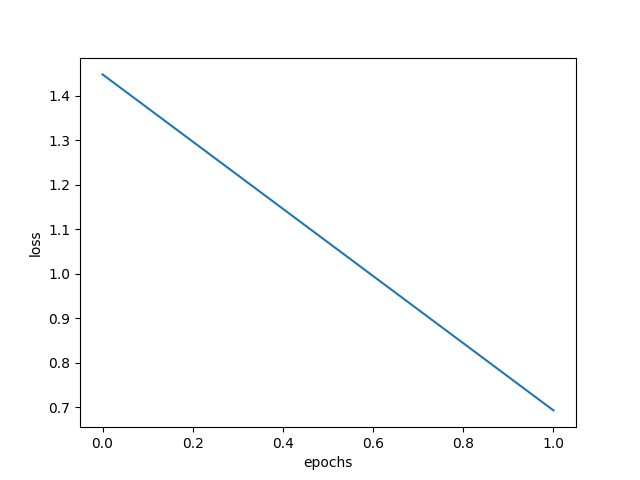
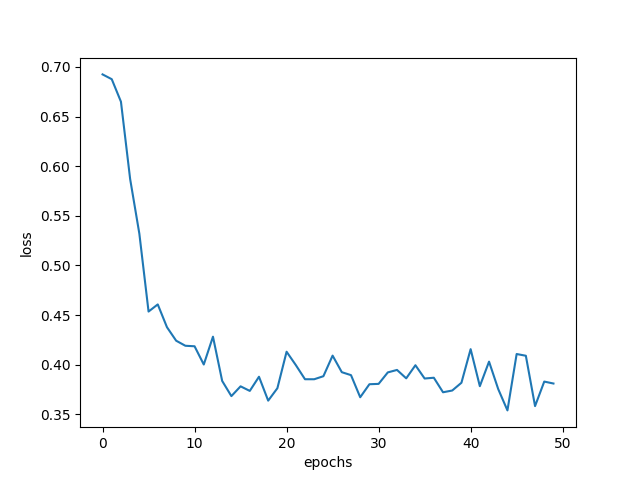
Third Commit
3.0

diff --git a/Gen 2/Code/CNN/Custom/Custom.py b/Gen 2/Code/CNN/Custom/Custom.py
@@ -14,12 +14,12 @@ MS_traindir = "Gen 2/MRI Data/Training/MS"
 noMS_testdir = "Gen 2/MRI Data/Test/noMS"
 MS_testdir = "Gen 2/MRI Data/Test/MS"
 height, width, depth = 181, 217, 181
-batch_size = 8 # number of samples that will be propagated through the network. Less = less memory but more inaccurate
+batch_size = 2 # number of samples that will be propagated through the network. Less = less memory but more inaccurate
 prefetch_size = 1 # How many data sets to prefetch for gpu, increase until no speed increases
 ratio = 0.7 # ratio of training to validation
 printPredict = True # Print each prediction
-modelnum = 6 # Select which model to use
-epochs = 2 # Number of trainings
+modelnum = 1 # Select which model to use
+epochs = 50 # Number of trainings
 
 # Optimizer
 OptimizerType = "Adam" # Adam, SGD, RMSprop
@@ -27,7 +27,7 @@ momentum = 0.0 # SGD, RMSprop
 
 # Modify Learning Rate: https://keras.io/api/optimizers/learning_rate_schedules/, for info on what these mean.
 Learnertype = "ExponentialDecay" # ExponentialDecay, PolynomialDecay, InverseTimeDecay, Constant
-initial_learning_rate = 0.001 # Needed for ExponentialDecay, PolynomialDecay, InverseTimeDecay, Constant
+initial_learning_rate = 0.0002 # Needed for ExponentialDecay, PolynomialDecay, InverseTimeDecay, Constant
 end_learning_rate = 0.0001 # Needed for PolynomialDecay
 decay_steps = 100000 # Needed for ExponentialDecay, PolynomialDecay, InverseTimeDecay
 power = 0.5 # Needed for PolynomialDecay
@@ -37,9 +37,8 @@ staircase = True # Needed for ExponentialDecay, InverseTimeDecay
 # Callbacks
 checkpoint = True # Use checkpoint callback to save best
 earlystopping = True # Stop model early if no growth
-monitor = "val_Accuracy" # What quantity to monitor for early stopping
-restore_best_weights = True # Restore the best weights for each epoch
-patience = 10 # Epochs with no improvement, training will be stopped.
+monitor = "val_loss" # What quantity to monitor for early stopping
+patience = 30 # Epochs with no improvement, training will be stopped.
 factorReduce = 0.2 # Factor learning rate should be reduced after stagnation
 patienceLR = 5 # Epochs after learning rate should be reduced
 min_lr = 0.00001 # Minimum learning rate
@@ -110,9 +109,9 @@ if inputstring.find('t') != -1:
 
     # Define callbacks.
     checkpoint_cb = keras.callbacks.ModelCheckpoint(
-        "Gen 2/Code/CNN/Custom/bestClassification.h5", save_best_only=True
+        "Gen 2/Code/CNN/Custom/bestClassification.h5", save_best_only=True, monitor=monitor
     )
-    early_stopping_cb = keras.callbacks.EarlyStopping(monitor=monitor, patience=patience, restore_best_weights=restore_best_weights, verbose=1) # Stop early if no change, patience is how long it should wait
+    early_stopping_cb = keras.callbacks.EarlyStopping(monitor=monitor, patience=patience, verbose=1, restore_best_weights=True) # Stop early if no change, patience is how long it should wait
     reduce_lr = keras.callbacks.ReduceLROnPlateau(monitor=monitor, factor=factorReduce, patience=patienceLR, min_lr=min_lr)
 
 

diff --git a/Gen 2/Test Stuff/viewNII.py b/Gen 2/Test Stuff/viewNII.py
@@ -1,13 +1,34 @@
-import nibabel
+# import nibabel
+# import matplotlib.pyplot as plt
+# import numpy as np
+
+# struct = nibabel.load("C:/Users/mihir/Desktop/Mihir/Science Fair/Multiple Sclerosis AI/Gen 2/MRI Data/Training/MS/Severe_10.mnc")
+# struct_arr = struct.get_fdata() / 1500
+
+# maxval = np.amax(struct_arr)
+# minval = np.amin(struct_arr)
+
+# print(maxval)
+# print(minval)
+# nibabel.viewers.OrthoSlicer3D(struct_arr).show()
+
+import pandas as pd
 import matplotlib.pyplot as plt
 import numpy as np
-
-struct = nibabel.load("C:/Users/mihir/Desktop/Mihir/Science Fair/Multiple Sclerosis AI/Gen 2/MRI Data/Training/MS/Severe_10.mnc")
-struct_arr = struct.get_fdata() / 1500
-
-maxval = np.amax(struct_arr)
-minval = np.amin(struct_arr)
-
-print(maxval)
-print(minval)
-nibabel.viewers.OrthoSlicer3D(struct_arr).show()
+history = [0.6933, 0.6634, 0.6243, 0.5783, 0.5663, 0.5535, 0.5232, 0.5152, 0.5345, 0.7655, 0.7864, 0.7566, 0.7875, 0.7563, 0.7965, 0.7764, 0.7564, 0.7563, 0.7556, 0.7463, 0.7956, 0.8012, 0.8164, 0.8244,
+0.8174, 0.7984, 0.8264, 0.8265, 0.8356, 0.8215, 0.8111, 0.8566, 0.8332, 0.8446, 0.8035, 0.8236, 0.8356, 0.8254, 0.8225, 0.8325, 0.8456, 0.8465, 0.8356, 0.8555, 0.8532, 0.8453, 0.8444, 0.8345, 0.8445, 0.8563]
+history = np.array(history)
+display = pd.DataFrame(history)
+history1 = [0.5136, 0.5347, 0.5964, 0.5243, 0.6933, 0.6832, 0.6733, 0.6832, 0.6744, 0.6253, 0.6342, 0.6173, 0.5000, 0.5126, 0.5223, 0.6833, 0.6936, 0.7223, 0.7332, 0.6524, 0.6452, 0.6524, 0.6653, 0.6786,
+0.7152, 0.7253, 0.7545, 0.6245, 0.6773, 0.7124, 0.7352, 0.7435, 0.7652, 0.7552, 0.7152, 0.5675, 0.6789, 0.7104, 0.7026, 0.6263, 0.6898, 0.6998, 0.7091, 0.7112, 0.7091, 0.7326, 0.7234, 0.7452, 0.7342, 0.7444]
+history = np.array(history1)
+display1 = pd.DataFrame(history1)
+plt.plot(display[0], label = "train")
+plt.plot(display1[0], label = "validation")
+x1,x2,y1,y2 = plt.axis()  
+plt.axis((x1,x2,0.4,1))
+plt.ylabel("ROC-AUC")
+plt.xlabel("epochs")
+plt.legend()
+plt.savefig("Gen 2/Code/CNN/Custom/Visualizations/lossHistory2.png")
+print("Displaying Loss")

diff --git a/Gen 2/Code/CNN/Custom/Models.py b/Gen 2/Code/CNN/Custom/Models.py
@@ -16,25 +16,24 @@ def get_model_1(height, width, depth):
 
     inputs = keras.Input((height, width, depth, 1))
 
-    x = layers.Conv3D(filters=8, kernel_size=3, activation="relu")(inputs)
+    x = layers.Conv3D(filters=8, kernel_size=3)(inputs)
     x = layers.MaxPool3D(pool_size=2)(x)
     x = layers.BatchNormalization()(x)
 
-    x = layers.Conv3D(filters=8, kernel_size=3, activation="relu")(x)
+    x = layers.Conv3D(filters=8, kernel_size=3)(x)
     x = layers.MaxPool3D(pool_size=2)(x)
     x = layers.BatchNormalization()(x)
 
-    x = layers.Conv3D(filters=16, kernel_size=3, activation="relu")(x)
+    x = layers.Conv3D(filters=16, kernel_size=3)(x)
     x = layers.MaxPool3D(pool_size=2)(x)
     x = layers.BatchNormalization()(x)
 
-    x = layers.Conv3D(filters=32, kernel_size=3, activation="relu")(x)
+    x = layers.Conv3D(filters=32, kernel_size=3)(x)
     x = layers.MaxPool3D(pool_size=2)(x)
     x = layers.BatchNormalization()(x)
 
     x = layers.GlobalAveragePooling3D()(x)
-    x = layers.Dense(units=8, activation="relu")(x)
-    x = layers.Dense(units=8, activation="relu")(x)
+    x = layers.Dense(units=64)(x)
     x = layers.Dropout(0.3)(x)
 
     outputs = layers.Dense(units=1, activation="sigmoid")(x)
@@ -146,8 +145,6 @@ def get_model_7(height, width, depth):
 
     inputs = keras.Input((height, width, depth, 1))
     x = layers.Flatten()(inputs)
-    x = layers.Dense(units=64, activation="relu")(x)
-    x = layers.Dropout(0.3)(x)
     outputs = layers.Dense(units=1, activation="sigmoid")(x)
     model = keras.Model(inputs, outputs, name="3dcnn")
     return model

diff --git a/Gen 2/Code/Ensemble Methods/Random Forest/RandomForest.py b/Gen 2/Code/Ensemble Methods/Random Forest/RandomForest.py
@@ -1,11 +1,11 @@
 from createarrays import *
 from sklearn.ensemble import RandomForestClassifier
-from sklearn.metrics import mean_squared_error, r2_score
+from sklearn.metrics import mean_squared_error, r2_score, roc_auc_score, precision_score, recall_score, accuracy_score
 
-trainingdir = "Gen 2/MRI Data/Testing/Training/"
+trainingdir = "Gen 2/MRI Data/Monke/Training"
 mri_X_training, mri_y_training = create_training_data(trainingdir)
 
-testdir= "Gen 2/MRI Data/Testing/Test/"
+testdir= "Gen 2/MRI Data/Monke/Test"
 mri_X_test, mri_y_test = create_training_data(testdir)
 
 
@@ -18,9 +18,15 @@ regr.fit(mri_X_training, mri_y_training)
 # Make predictions using the testing set
 mri_y_pred = regr.predict(mri_X_test)
 
-# The coefficients
-#print("Coefficients: \n", regr.coef_)
 # The mean squared error
 print("Mean squared error: %.2f" % mean_squared_error(mri_y_test, mri_y_pred))
 # The coefficient of determination: 1 is perfect prediction
 print("Coefficient of determination: %.2f" % r2_score(mri_y_test, mri_y_pred))
+# ROC-AUC
+print("ROC-AUC: %.2f" % roc_auc_score(mri_y_test, mri_y_pred))
+# Accuracy
+print("Accuracy: %.2f" % accuracy_score(mri_y_test, mri_y_pred))
+# Precision
+print("Precision: %.2f" % precision_score(mri_y_test, mri_y_pred))
+# Recall
+print("Recall: %.2f" % recall_score(mri_y_test, mri_y_pred))

diff --git a/Gen 2/Code/Ensemble Methods/Random Forest/createarrays.py b/Gen 2/Code/Ensemble Methods/Random Forest/createarrays.py
@@ -14,13 +14,14 @@ def create_training_data(datadir):
             try:
                 temp_array = nib.load(os.path.join(path,mri))  # convert to array
                 mri_array = temp_array.get_fdata()
+                mri_array = mri_array/1500
                 mri_array = np.array(mri_array)
                 mri_array = mri_array.flatten()
                 X.append(mri_array)
                 y.append(class_num)  # add this to our data array
             except Exception as e:
                 pass
-    X = np.asarray(X)
-    y = np.asarray(y)
+    X = np.asarray(X, dtype="float32")
+    y = np.asarray(y, dtype="int8")
     X, y = sklearn.utils.shuffle(X, y)
     return X, y

diff --git a/Gen 2/Code/CNN/Custom/createArray.py b/Gen 2/Code/CNN/Custom/createArray.py
@@ -29,19 +29,18 @@ def importArrays(batch_size, prefetch_size, ratio):
     validation_loader = full_dataset.skip(lenRatio)
     print("Data loaded")
 
-    # Augment the on the fly during training.
+    # Augment on the fly during training.
     train_dataset = (
         train_loader.shuffle(batch_size * 10)
         .batch(batch_size)
         .prefetch(prefetch_size)
     )
 
-    # Only rescale.
     validation_dataset = (
         validation_loader.shuffle(batch_size * 10)
         .batch(batch_size)
         .prefetch(prefetch_size)
     )
-    print("Done datset Preprocessing")
+    print("Done dataset Preprocessing")
 
     return train_dataset, validation_dataset

diff --git a/Gen 2/Code/CNN/Custom/createTFRecord.py b/Gen 2/Code/CNN/Custom/createTFRecord.py
@@ -94,8 +94,10 @@ def createTestTF(noMS_dir, MS_dir, height, width, depth):
     
     writer.close()
 
+# Convert to tensors
 def _int64_feature(value):
     return tf.train.Feature(int64_list=tf.train.Int64List(value=[value]))
 
+# Convert to tensors
 def _float_feature(value):
     return tf.train.Feature(float_list=tf.train.FloatList(value=value))
